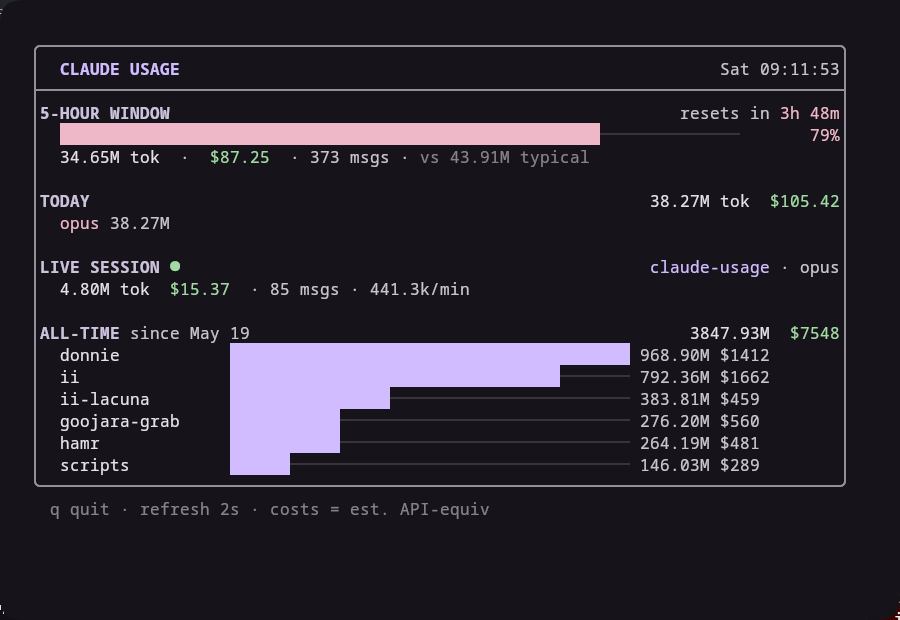
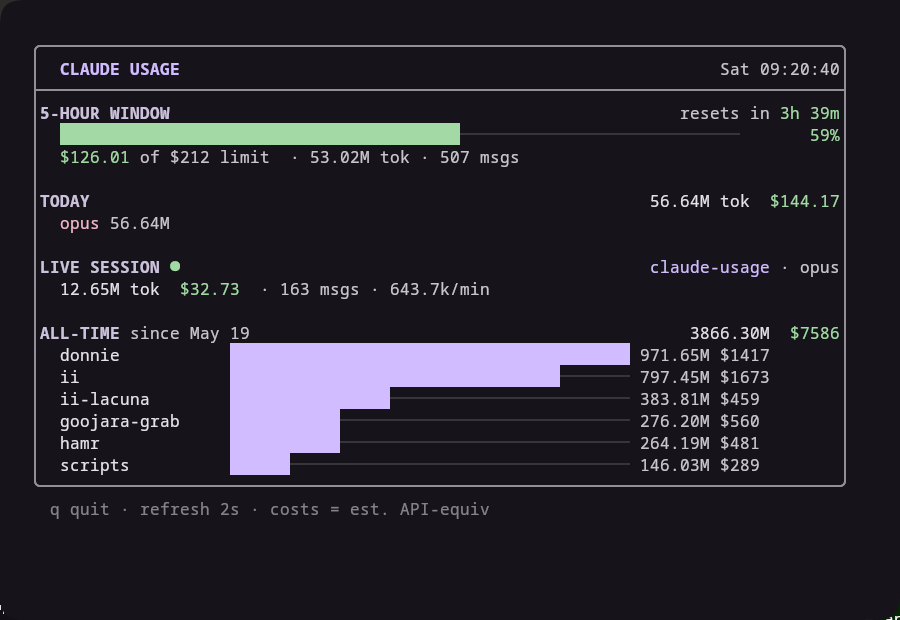
Scale 5-hour window by cost budget + add --calibrate
Raw token totals are ~97% cache-read tokens, which the real plan limit
barely counts, so the old token-vs-typical bar was wildly inflated.
Switch the window % to cost-equivalent (which already weights output,
cache-creation and cache-reads correctly) scaled against a cost budget.

Calibrate the budget to the official usage %:
  claude-usage --calibrate 59
  claude-usage --set-budget 212
Stored in ~/.config/claude-usage/config.json; CLAUDE_USAGE_COST_BUDGET
overrides. Falls back to median historical block cost when uncalibrated.

diff --git a/tracker.py b/tracker.py
@@ -4,8 +4,17 @@ from datetime import datetime, timezone, timedelta
 
 PROJECTS = os.path.expanduser("~/.claude/projects")
 PALETTE = os.path.expanduser("~/.local/state/quickshell/user/generated/colors.json")
+CONFIG = os.path.expanduser("~/.config/claude-usage/config.json")
 REFRESH = 2.0
 WINDOW = timedelta(hours=5)
+
+def load_config():
+    try:
+        with open(CONFIG) as f: return json.load(f)
+    except Exception: return {}
+def save_config(d):
+    os.makedirs(os.path.dirname(CONFIG), exist_ok=True)
+    with open(CONFIG, "w") as f: json.dump(d, f, indent=2)
 
 # $/million tokens: input, output, cache_write(1h-ish), cache_read
 PRICING = {
@@ -186,17 +195,12 @@ def render():
         bt = sum(tok(e) for e in blk["events"])
         bc = sum(cost(e) for e in blk["events"])
         resets = blk["end"] - now
-        # calibrate bar against env limit or historical peak token-block
-        env_lim = os.environ.get("CLAUDE_USAGE_TOKEN_LIMIT")
-        if env_lim and env_lim.isdigit():
-            limit = int(env_lim); ref_label = "limit"
-        else:
-            limit = max(bt, reference_block_tokens(events)); ref_label = "typical"
-        frac = bt / limit if limit else 0
+        budget, ref_label = cost_budget(events)
+        frac = bc / budget if budget else 0
         col = C["ok"] if frac < 0.6 else (C["ter"] if frac < 0.85 else C["err"])
         rule(f"{BOLD}{fg(C['sec'])}5-HOUR WINDOW{RESET}", f"{fg(C['sub'])}resets in {fg(col)}{fmt_dur(resets)}{RESET}")
         rule("  " + bar(frac, inner-12, col, C["track"]), f"{fg(col)}{frac*100:.0f}%{RESET}")
-        rule(f"  {fg(C['text'])}{fmt_tok(bt)} tok{RESET}  {fg(C['sub'])}·{RESET}  {fg(C['ok'])}${bc:.2f}{RESET}  {fg(C['sub'])}· {len(blk['events'])} msgs · {DIM}vs {fmt_tok(limit)} {ref_label}{RESET}")
+        rule(f"  {fg(C['ok'])}${bc:.2f}{RESET} {fg(C['sub'])}of ${budget:.0f} {ref_label}{RESET}  {fg(C['sub'])}· {fmt_tok(bt)} tok · {len(blk['events'])} msgs{RESET}")
     else:
         rule(f"{BOLD}{fg(C['sec'])}5-HOUR WINDOW{RESET}", f"{fg(C['sub'])}idle{RESET}")
         rule(f"  {fg(C['sub'])}no activity in the last 5h{RESET}")
@@ -256,27 +260,65 @@ import re
 _ansi = re.compile(r"\033\[[0-9;]*m")
 def strip_len(s): return len(_ansi.sub("", s))
 
-def reference_block_tokens(events):
-    # median tokens across historical 5h blocks (bar = this window vs a typical one)
-    if not events: return 1
+def cost_budget(events):
+    # $ cost budget the 5h window is scaled against. Calibrate with --calibrate.
+    env = os.environ.get("CLAUDE_USAGE_COST_BUDGET")
+    if env:
+        try: return float(env), "limit"
+        except ValueError: pass
+    cfg = load_config()
+    if cfg.get("cost_budget"):
+        return float(cfg["cost_budget"]), "limit"
+    return reference_block_cost(events), "typical"
+
+def block_costs(events):
+    # cost-equivalent of every historical 5h block
+    if not events: return []
     blocks = []; cur = None
     for e in events:
         if cur is None:
             start = e["t"].replace(minute=0, second=0, microsecond=0)
-            cur = {"end": start+WINDOW, "last": e["t"], "t": tok(e)}; continue
+            cur = {"end": start+WINDOW, "last": e["t"], "c": cost(e)}; continue
         if e["t"] >= cur["end"] or (e["t"]-cur["last"]) > WINDOW:
-            blocks.append(cur["t"]); start = e["t"].replace(minute=0,second=0,microsecond=0)
-            cur = {"end": start+WINDOW, "last": e["t"], "t": tok(e)}
+            blocks.append(cur["c"]); start = e["t"].replace(minute=0,second=0,microsecond=0)
+            cur = {"end": start+WINDOW, "last": e["t"], "c": cost(e)}
         else:
-            cur["t"] += tok(e); cur["last"] = e["t"]
-    if cur: blocks.append(cur["t"])
-    blocks = [b for b in blocks if b > 0]
-    if not blocks: return 1
+            cur["c"] += cost(e); cur["last"] = e["t"]
+    if cur: blocks.append(cur["c"])
+    return blocks
+
+def reference_block_cost(events):
+    # median cost across historical 5h blocks (fallback when uncalibrated)
+    blocks = [b for b in block_costs(events) if b > 0]
+    if not blocks: return 1.0
     blocks.sort()
     return blocks[len(blocks)//2]
 
 def main():
     load_palette()
+    if "--calibrate" in sys.argv:
+        i = sys.argv.index("--calibrate")
+        try: pct = float(sys.argv[i+1])
+        except (IndexError, ValueError):
+            print("usage: claude-usage --calibrate <percent>   (your real Claude usage % right now)"); return
+        events, _ = refresh_events()
+        blk = active_block(events)
+        if not blk:
+            print("no active 5-hour window to calibrate against — use Claude, then retry."); return
+        bc = sum(cost(e) for e in blk["events"])
+        if pct <= 0:
+            print("percent must be > 0"); return
+        budget = round(bc / (pct/100), 2)
+        cfg = load_config(); cfg["cost_budget"] = budget; save_config(cfg)
+        print(f"calibrated: window ${bc:.2f} = {pct:.0f}%  ->  budget ${budget:.2f}\nsaved to {CONFIG}")
+        return
+    if "--set-budget" in sys.argv:
+        i = sys.argv.index("--set-budget")
+        try: budget = round(float(sys.argv[i+1]), 2)
+        except (IndexError, ValueError):
+            print("usage: claude-usage --set-budget <dollars>"); return
+        cfg = load_config(); cfg["cost_budget"] = budget; save_config(cfg)
+        print(f"5-hour cost budget set to ${budget:.2f}  (saved to {CONFIG})"); return
     if "--once" in sys.argv:
         print(render()); return
     sys.stdout.write("\033[?1049h\033[?25l")  # alt screen, hide cursor

diff --git a/README.md b/README.md
@@ -6,7 +6,7 @@ A live, terminal usage tracker for [Claude Code](https://claude.com/claude-code)
 
 ## What it shows
 
-- **5-hour window** — token/cost burn in the current rolling 5-hour block, with a reset countdown. The bar is calibrated against your *median* historical block ("vs typical"); set `CLAUDE_USAGE_TOKEN_LIMIT` to gauge against a real plan limit instead.
+- **5-hour window** — cost-equivalent burn in the current rolling 5-hour block, with a reset countdown. The percentage is scaled against a **cost budget** (cost is used rather than raw tokens because it already weights output, cache-creation, and cache-reads the way the real plan limit does — cache reads alone are ~97% of raw tokens and barely count). Calibrate the budget to match your actual Claude usage %, see below.
 - **Today** — tokens and estimated cost, broken down by model.
 - **Live session** — the session you're working in right now, with tokens/min.
 - **All-time** — per-project breakdown across every session.
@@ -26,6 +26,17 @@ bin/claude-usage-float    # floating kitty window (class: claude-usage-tui)
 ```
 
 `q` quits. Refreshes every 2s.
+
+### Calibrating the 5-hour budget
+
+The real plan limit is opaque and model-weighted, so calibrate it once against the official percentage (Claude Code's `/usage`, or the web app). While it shows, say, 59%:
+
+```sh
+claude-usage --calibrate 59     # back-solves and saves the cost budget
+claude-usage --set-budget 212   # or set the dollar budget directly
+```
+
+This writes `~/.config/claude-usage/config.json`. `CLAUDE_USAGE_COST_BUDGET` overrides it. Uncalibrated, the bar falls back to your *median* historical block ("typical").
 
 ## Install
 
